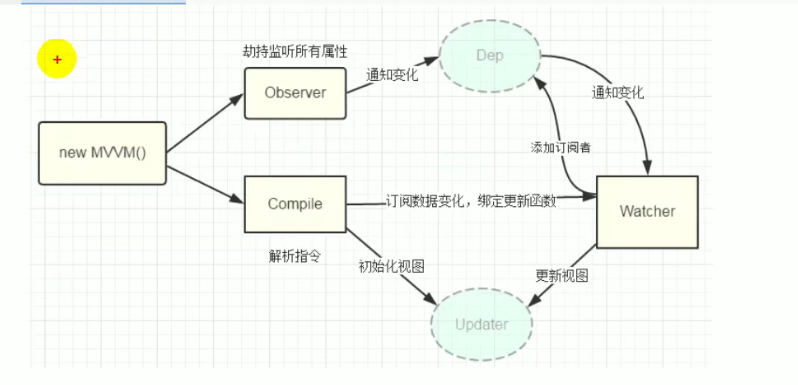
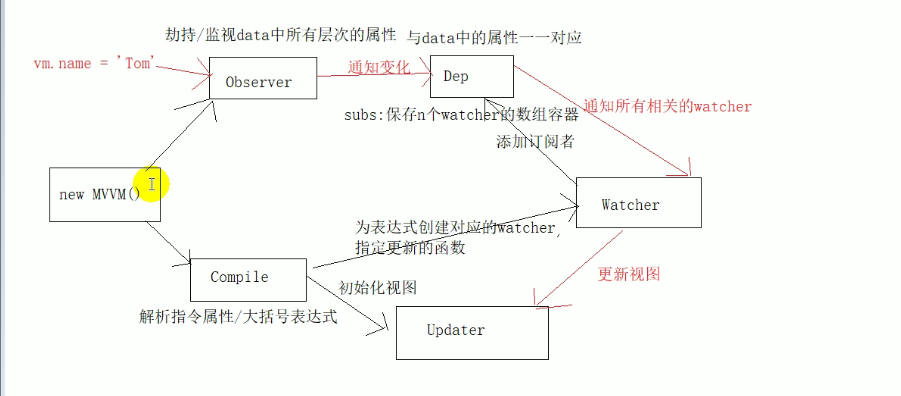
数据劫持结束

diff --git a/vue练习/vue源码练习/Vue源码解析.md b/vue练习/vue源码练习/Vue源码解析.md
@@ -1,4 +1,4 @@
-#  Vue源码解析
+#   Vue源码解析
 
 ### 数据代理
 
@@ -359,4 +359,33 @@ function Watcher(vm, exp, cb) {
 
 例如`{{a.b}}`，它为一个表达式所以对应一个Watcher，但是包含了两个属性（a，b）就对应了两个Dep
 
+**如何建立的？**
+
+Dep与Watcher间，Dep先建立。（先`observe(data,this),再this.$compile`）。`observe(data，this)`对data中所有层次的属性通过数据劫持实现数据绑定，创建Dep。
+
+关系实在data中属性的get()中建立 
+
+对应关系举例如下：
+
+```html
+<div id="test">
+    <p>{{name}}</p>		<!--watcher1--d0-->
+    <p v-text="name"></p>	<!--watcher2--d0-->
+    <p v-text = "wife.name"></p>	<!--watcher3--{d1,d2}-->
+    <!--d0--[watcher1.watcher2]-->
+    <button v-on:click="update"></button>
+</div>
+```
+
+**图解**
+
 ![25](img/25.png)
+
+new MVVM()过程中创建两个实例，一个是observer一个是Compile。observer用来实现对数据的劫持或监视，这里面依赖于Dep，要创建对应的Dep。在初始化的时候是没有通知变化的那根线的。Complie有两个事情，一个是初始化视图（解析指令属性/大括号表达式），一个是创建对应的Watcher，创建Watcher是为了后面来更新视图，创建watcher内部需要去建立Dep与Watcher之间的关系，将Watcher添加到对应的Dep里面。
+**一个Watcher一定会对应一个Dep吗？**
+
+不一定。要看属性，比如a.b.c，一个属性一个Dep，就是三个Dep。
+
+
+
+更新vm的数据（一个属性）实则导致data的属性变化了，data属性有set监视，里面就会通知的对应的Dep(只会通知1个Dep，因为只有一个属性，但会可能关联N个Watcher)
